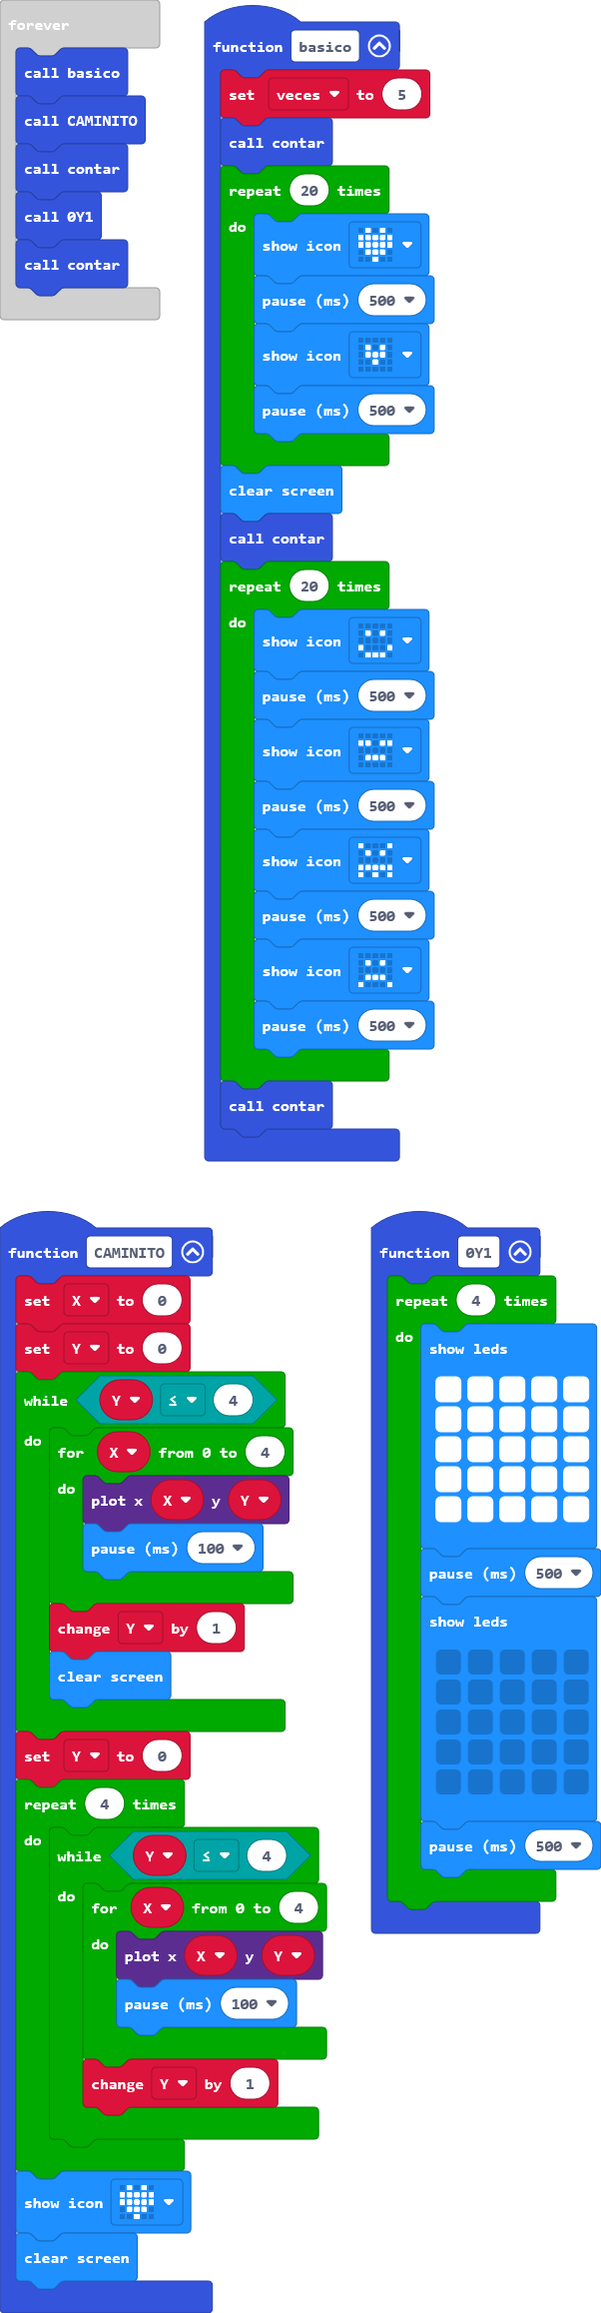
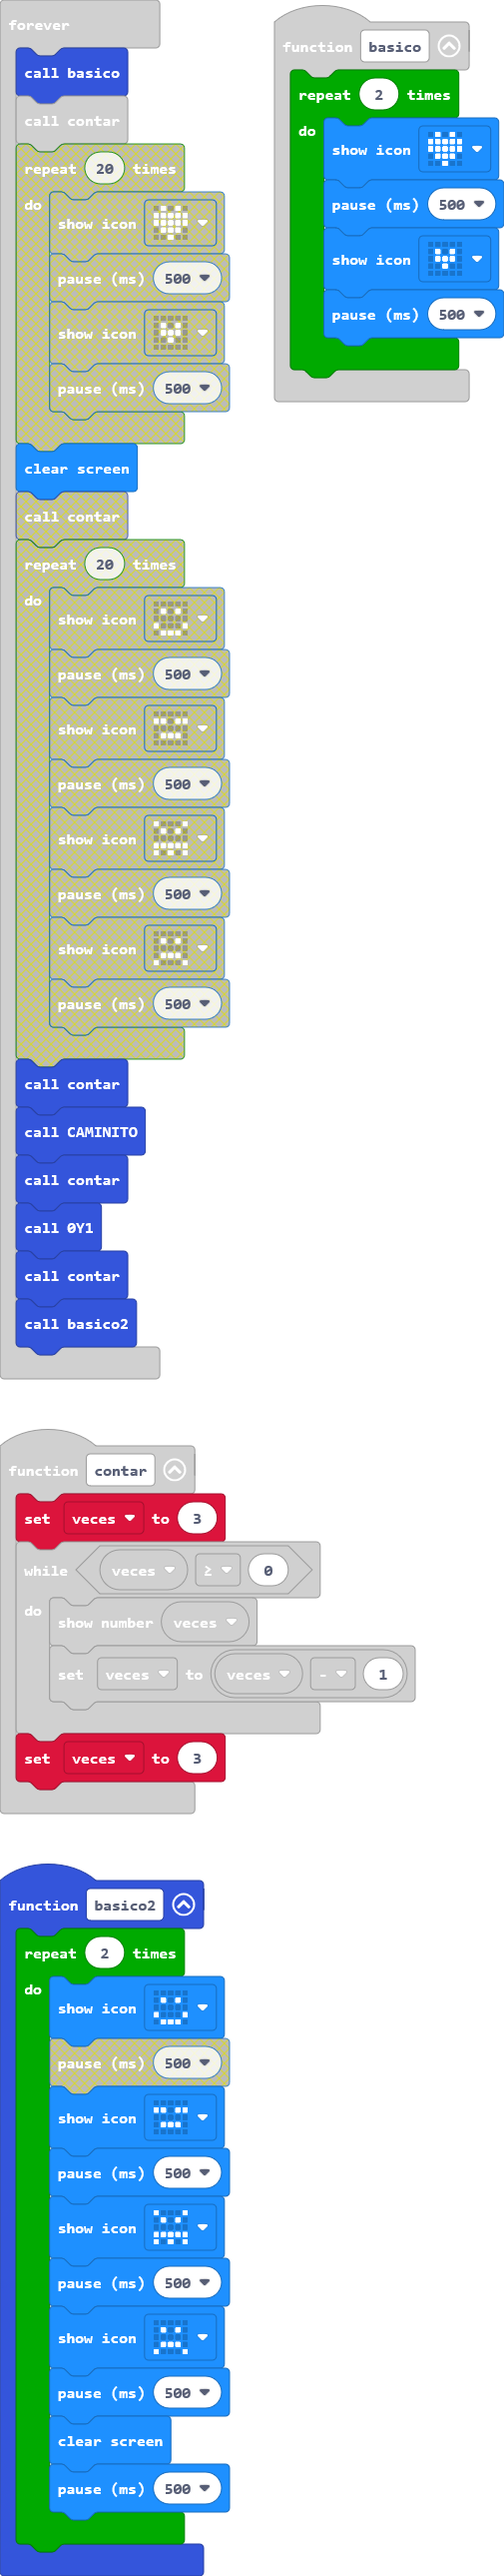
Update main.blocks, main.ts

diff --git a/main.ts b/main.ts
@@ -2,10 +2,12 @@ let veces = 0
 let X = 0
 let Y = 0
 function contar () {
+    veces = 3
     while (veces >= 0) {
         basic.showNumber(veces)
         veces = veces - 1
     }
+    veces = 3
 }
 function CAMINITO () {
     X = 0
@@ -51,18 +53,8 @@ function _0Y1 () {
         basic.pause(500)
     }
 }
-function basico () {
-    veces = 5
-    contar()
-    for (let index = 0; index < 20; index++) {
-        basic.showIcon(IconNames.Heart)
-        basic.pause(500)
-        basic.showIcon(IconNames.SmallHeart)
-        basic.pause(500)
-    }
-    basic.clearScreen()
-    contar()
-    for (let index = 0; index < 20; index++) {
+function basico2 () {
+    for (let index = 0; index < 2; index++) {
         basic.showIcon(IconNames.Happy)
         basic.pause(500)
         basic.showIcon(IconNames.Asleep)
@@ -71,11 +63,23 @@ function basico () {
         basic.pause(500)
         basic.showIcon(IconNames.Sad)
         basic.pause(500)
+        basic.clearScreen()
     }
-    contar()
+}
+function basico () {
+    for (let index = 0; index < 2; index++) {
+        basic.showIcon(IconNames.Heart)
+        basic.pause(500)
+        basic.showIcon(IconNames.SmallHeart)
+        basic.pause(500)
+        basic.clearScreen()
+    }
 }
 basic.forever(function () {
     basico()
+    contar()
+    basico2()
+    contar()
     CAMINITO()
     contar()
     _0Y1()
